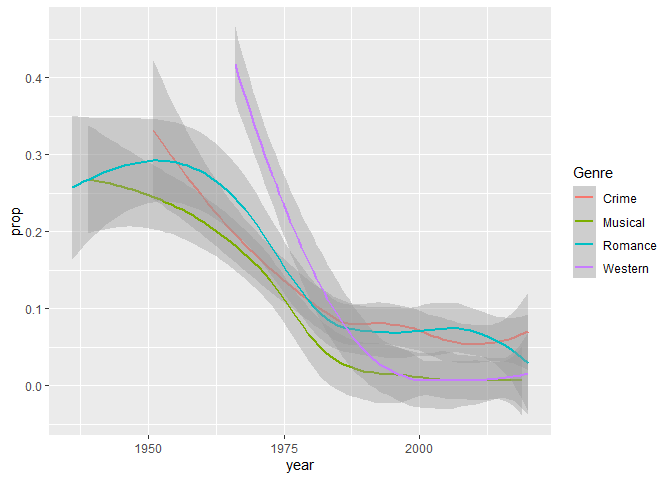
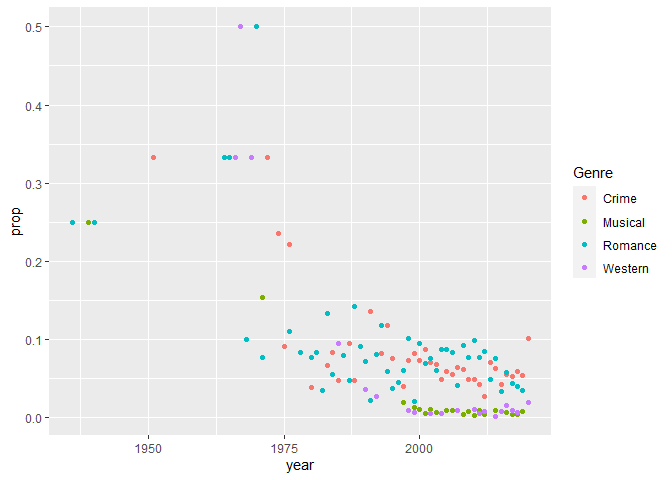
Interessanter Zusammenhang: Anzahl Genre vs. Year

diff --git a/Bericht_Henke_Keil_Reichmann.md b/Bericht_Henke_Keil_Reichmann.md
@@ -289,7 +289,7 @@ year_genre_total <- genre_year %>% count(year)
 left_join(year_per_genre, year_genre_total, by = "year") %>% 
   mutate(prop = n.x/n.y) %>% 
   filter(Genre %in% c("Crime", "Romance", "Musical", "Western")) %>% 
-  ggplot(aes(x = year, y = prop, color = Genre)) + geom_smooth()
+  ggplot(aes(x = year, y = prop, color = Genre)) + geom_point()
 ```
 
 ![](Bericht_Henke_Keil_Reichmann_files/figure-gfm/unnamed-chunk-7-1.png)<!-- -->
@@ -300,7 +300,7 @@ genre_year_ger <- data %>%
   separate_rows(Genre, sep = ", ") %>%
   separate_rows(`Country Availability`, sep = ",") %>%
   filter(`Country Availability` == "Germany") %>% 
-  mutate(year = as.integer(substr(`Release Date`, 8, 12))) %>% 
+  mutate(year = as.integer(substr(`Release Date`, 8, 12))) %>%
   select(Genre, year)
 year_per_genre_ger <- genre_year_ger %>%
   count(year, Genre)
@@ -312,3 +312,22 @@ left_join(year_per_genre_ger, year_genre_total_ger, by = "year") %>%
 ```
 
 ![](Bericht_Henke_Keil_Reichmann_files/figure-gfm/unnamed-chunk-8-1.png)<!-- -->
+
+``` r
+data %>% drop_na() %>%
+  separate_rows(Genre, sep = ", ") %>%
+  mutate(year = as.integer(substr(`Release Date`, 8, 12))) %>% 
+  select(Genre, year) %>% 
+  filter(year > 1960 && year < 2020) %>% 
+  group_by(year) %>% 
+  distinct() %>% 
+  count(year) %>% 
+  ggplot(aes(x = year, y = n)) +
+  geom_point() +
+  geom_smooth(method = 'lm')
+```
+
+![](Bericht_Henke_Keil_Reichmann_files/figure-gfm/unnamed-chunk-9-1.png)<!-- -->
+
+Hypothese: Netflix bietet bei neueren Filmen mehr Genres an, mit
+linearem Zusammenhang.
